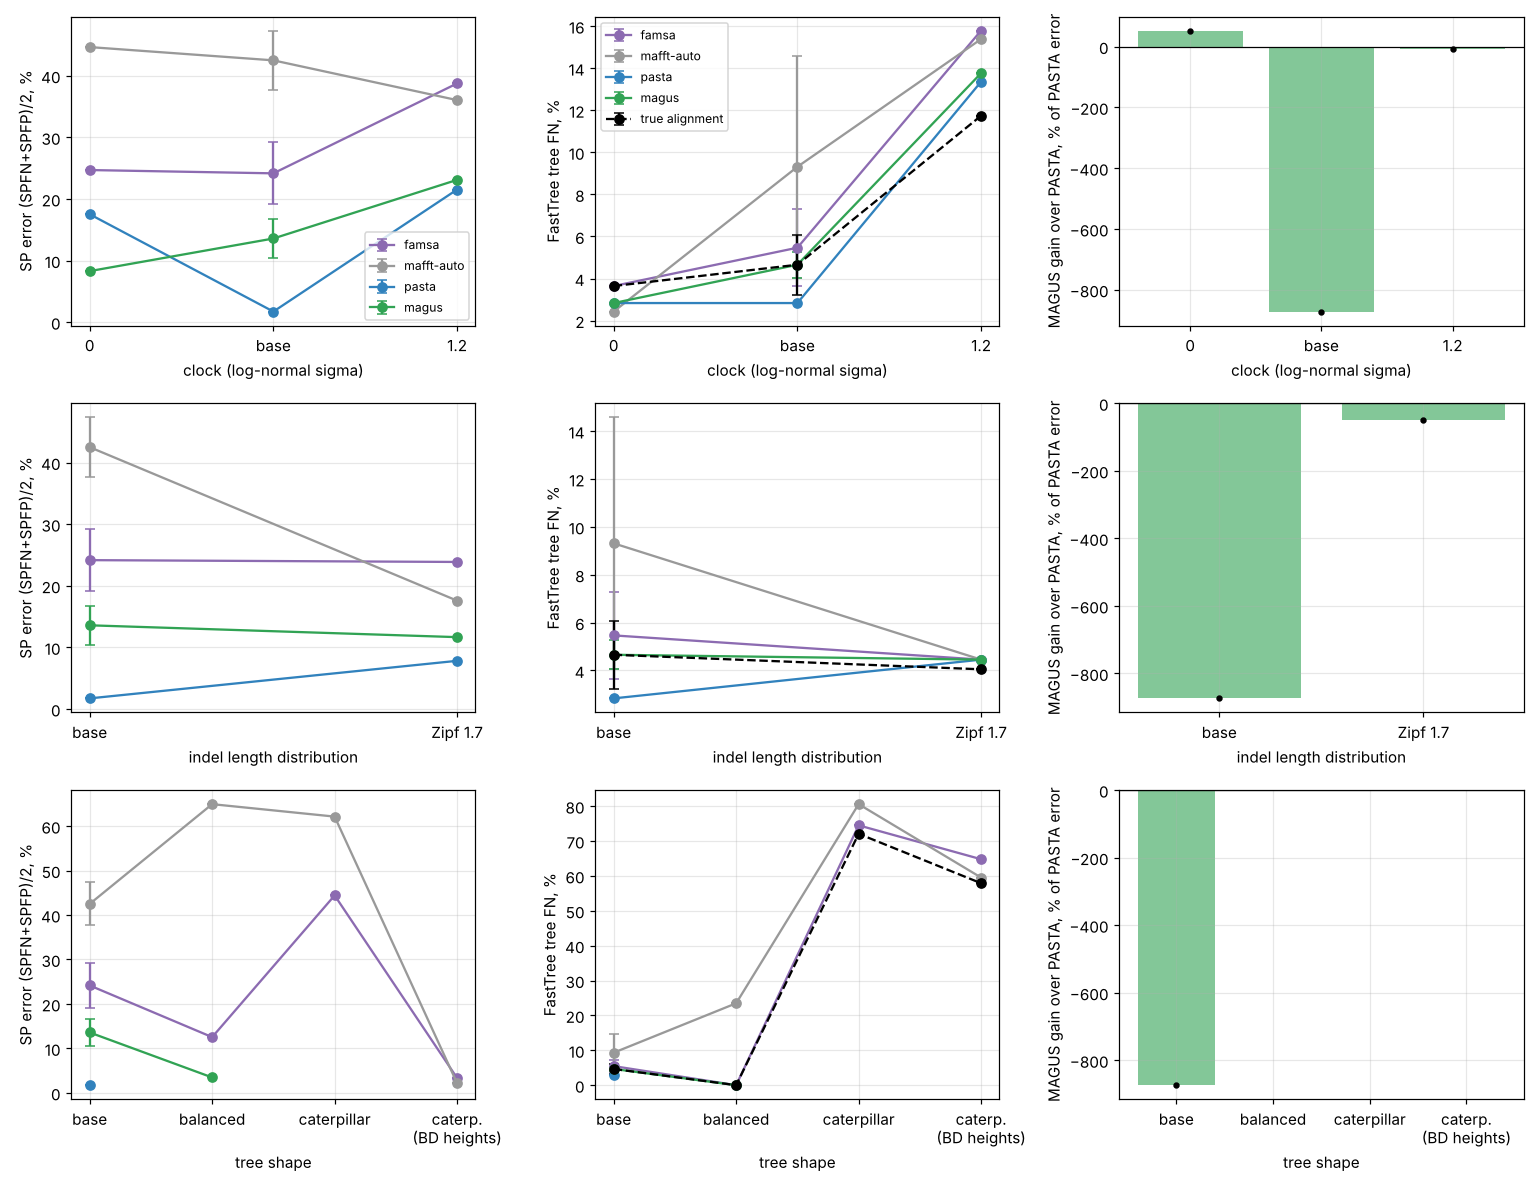
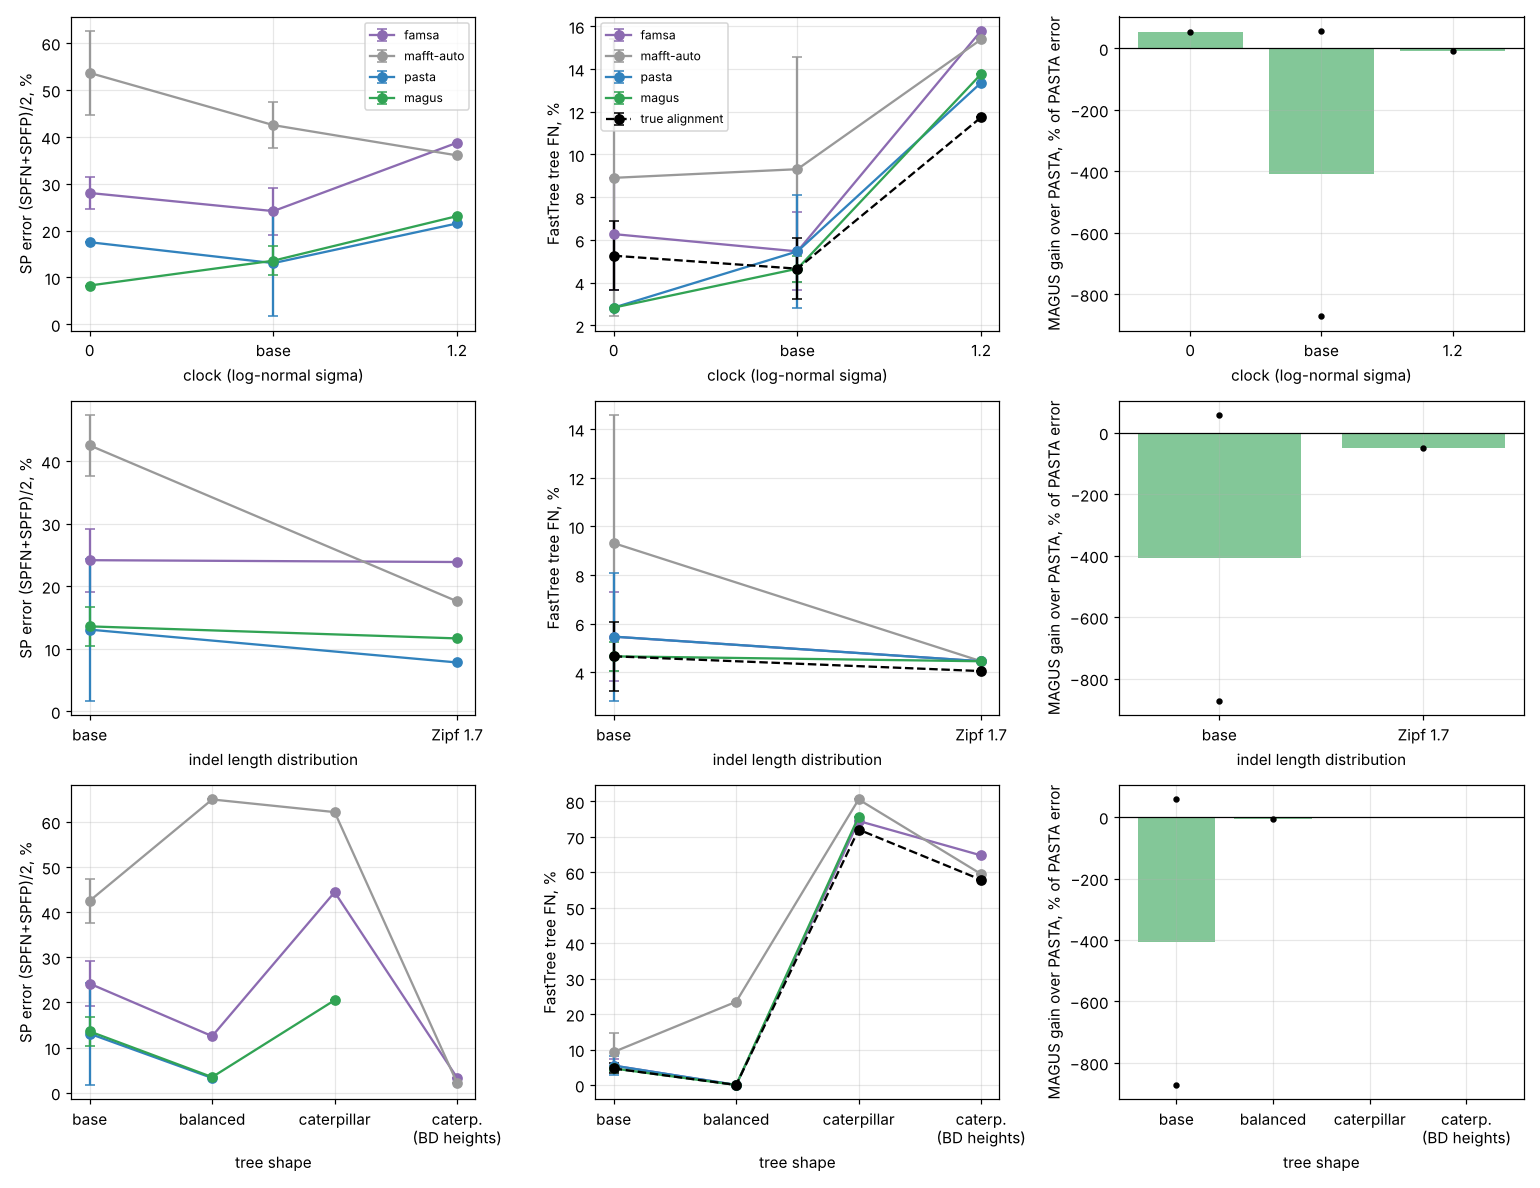
cs581/models: interim simulation results
Claude-Session: https://claude.ai/code/session_016r24PFxd7c5QBpCEq4hEba

diff --git a/cs581/models/code/real_sims.py b/cs581/models/code/real_sims.py
@@ -16,7 +16,8 @@ for rep in range(reps):
         ref = pat.format(rep)
         with tempfile.TemporaryDirectory() as tmp:
             un = os.path.join(tmp, "u.fa")
-            fasta.write(fasta.ungap(fasta.upper(fasta.read(ref))), un)
+            seqs = fasta.ungap(fasta.upper(fasta.read(ref)))
+            fasta.write({k: v.replace("U", "T") for k, v in seqs.items()}, un)  # RNASim is RNA; FAMSA needs DNA letters
             for m, cmd in (("famsa", ["/opt/mm/root/envs/bio/bin/famsa", "-t", "1", un, os.path.join(tmp, "famsa.fa")]),
                            ("mafft-auto", ["mafft", "--auto", "--thread", "1", un])):
                 if (s, rep, m) in done:
@@ -24,6 +25,8 @@ for rep in range(reps):
                 o = os.path.join(tmp, m + ".fa")
                 with open(o if m == "mafft-auto" else os.devnull, "w") as f:
                     subprocess.run(cmd, stdout=f, stderr=subprocess.DEVNULL, check=True)
-                sc = score.fastsp(ref, o)
+                refT = os.path.join(tmp, "ref.fa")
+                fasta.write({k: v.upper().replace("U", "T") for k, v in fasta.read(ref).items()}, refT)
+                sc = score.fastsp(refT, o)
                 with open(out, "a") as f:
                     f.write(json.dumps({"set": s, "rep": rep, "method": m, "avgErr": sc["avgErr"], "SPFN": sc["SPFN"], "SPFP": sc["SPFP"]}) + "\n")

diff --git a/cs581/models/results/summary.md b/cs581/models/results/summary.md
@@ -1,9 +1,9 @@
 | cell | reps | rtt CV | mean p | gap frac | famsa SP err | mafft-auto SP err | mafft-linsi SP err | pasta SP err | magus SP err | MAGUS-PASTA abs (rel) | famsa tree FN | mafft-auto tree FN | mafft-linsi tree FN | pasta tree FN | magus tree FN | true tree FN | ranking (SP err) |
 |---|---|---|---|---|---|---|---|---|---|---|---|---|---|---|---|---|---|--|
-| clock0 | 1 | 0.00 | 0.62 | 0.36 | 24.7±0.0 | 44.6±0.0 | – | 17.5±0.0 | 8.3±0.0 | +9.2 (+53%) | 3.6±0.0 | 2.4±0.0 | – | 2.8±0.0 | 2.8±0.0 | 3.6±0.0 | magus < pasta < famsa < mafft-auto |
-| base | 2 | 0.10 | 0.62 | 0.38 | 24.2±5.0 | 42.5±4.8 | – | 1.7±0.0 | 13.6±3.1 | -15.0 (-872%) | 5.5±1.8 | 9.3±5.3 | – | 2.8±0.0 | 4.7±0.6 | 4.7±1.4 | pasta < magus < famsa < mafft-auto |
+| clock0 | 2 | 0.00 | 0.64 | 0.40 | 28.0±3.3 | 53.6±9.0 | – | 17.5±0.0 | 8.3±0.0 | +9.2 (+53%) | 6.3±2.6 | 8.9±6.5 | – | 2.8±0.0 | 2.8±0.0 | 5.3±1.6 | magus < pasta < famsa < mafft-auto |
+| base | 2 | 0.10 | 0.62 | 0.38 | 24.2±5.0 | 42.5±4.8 | – | 13.1±11.3 | 13.6±3.1 | -0.5 (-407%) | 5.5±1.8 | 9.3±5.3 | – | 5.5±2.6 | 4.7±0.6 | 4.7±1.4 | pasta < magus < famsa < mafft-auto |
 | clock1.2 | 1 | 0.39 | 0.57 | 0.42 | 38.7±0.0 | 36.0±0.0 | – | 21.5±0.0 | 23.1±0.0 | -1.6 (-7%) | 15.8±0.0 | 15.4±0.0 | – | 13.4±0.0 | 13.8±0.0 | 11.7±0.0 | pasta < magus < mafft-auto < famsa |
 | pow1.7 | 1 | 0.08 | 0.61 | 0.31 | 23.9±0.0 | 17.6±0.0 | – | 7.8±0.0 | 11.7±0.0 | -3.8 (-49%) | 4.5±0.0 | 4.5±0.0 | – | 4.5±0.0 | 4.5±0.0 | 4.0±0.0 | pasta < magus < mafft-auto < famsa |
-| balanced | 1 | 0.10 | 0.67 | 0.54 | 12.5±0.0 | 64.9±0.0 | – | – | 3.5±0.0 | – | 0.0±0.0 | 23.5±0.0 | – | – | 0.0±0.0 | 0.0±0.0 | magus < famsa < mafft-auto |
-| caterpillar | 1 | 0.19 | 0.60 | 0.70 | 44.4±0.0 | 62.1±0.0 | – | – | – | – | 74.5±0.0 | 80.6±0.0 | – | – | – | 72.1±0.0 | famsa < mafft-auto |
+| balanced | 1 | 0.10 | 0.67 | 0.54 | 12.5±0.0 | 64.9±0.0 | – | 3.3±0.0 | 3.5±0.0 | -0.2 (-6%) | 0.0±0.0 | 23.5±0.0 | – | 0.0±0.0 | 0.0±0.0 | 0.0±0.0 | pasta < magus < famsa < mafft-auto |
+| caterpillar | 1 | 0.19 | 0.60 | 0.70 | 44.4±0.0 | 62.1±0.0 | – | – | 20.5±0.0 | – | 74.5±0.0 | 80.6±0.0 | – | – | 75.7±0.0 | 72.1±0.0 | magus < famsa < mafft-auto |
 | caterpillarbdh | 1 | 0.05 | 0.27 | 0.35 | 3.3±0.0 | 2.2±0.0 | – | – | – | – | 64.8±0.0 | 59.5±0.0 | – | – | – | 57.9±0.0 | mafft-auto < famsa |
